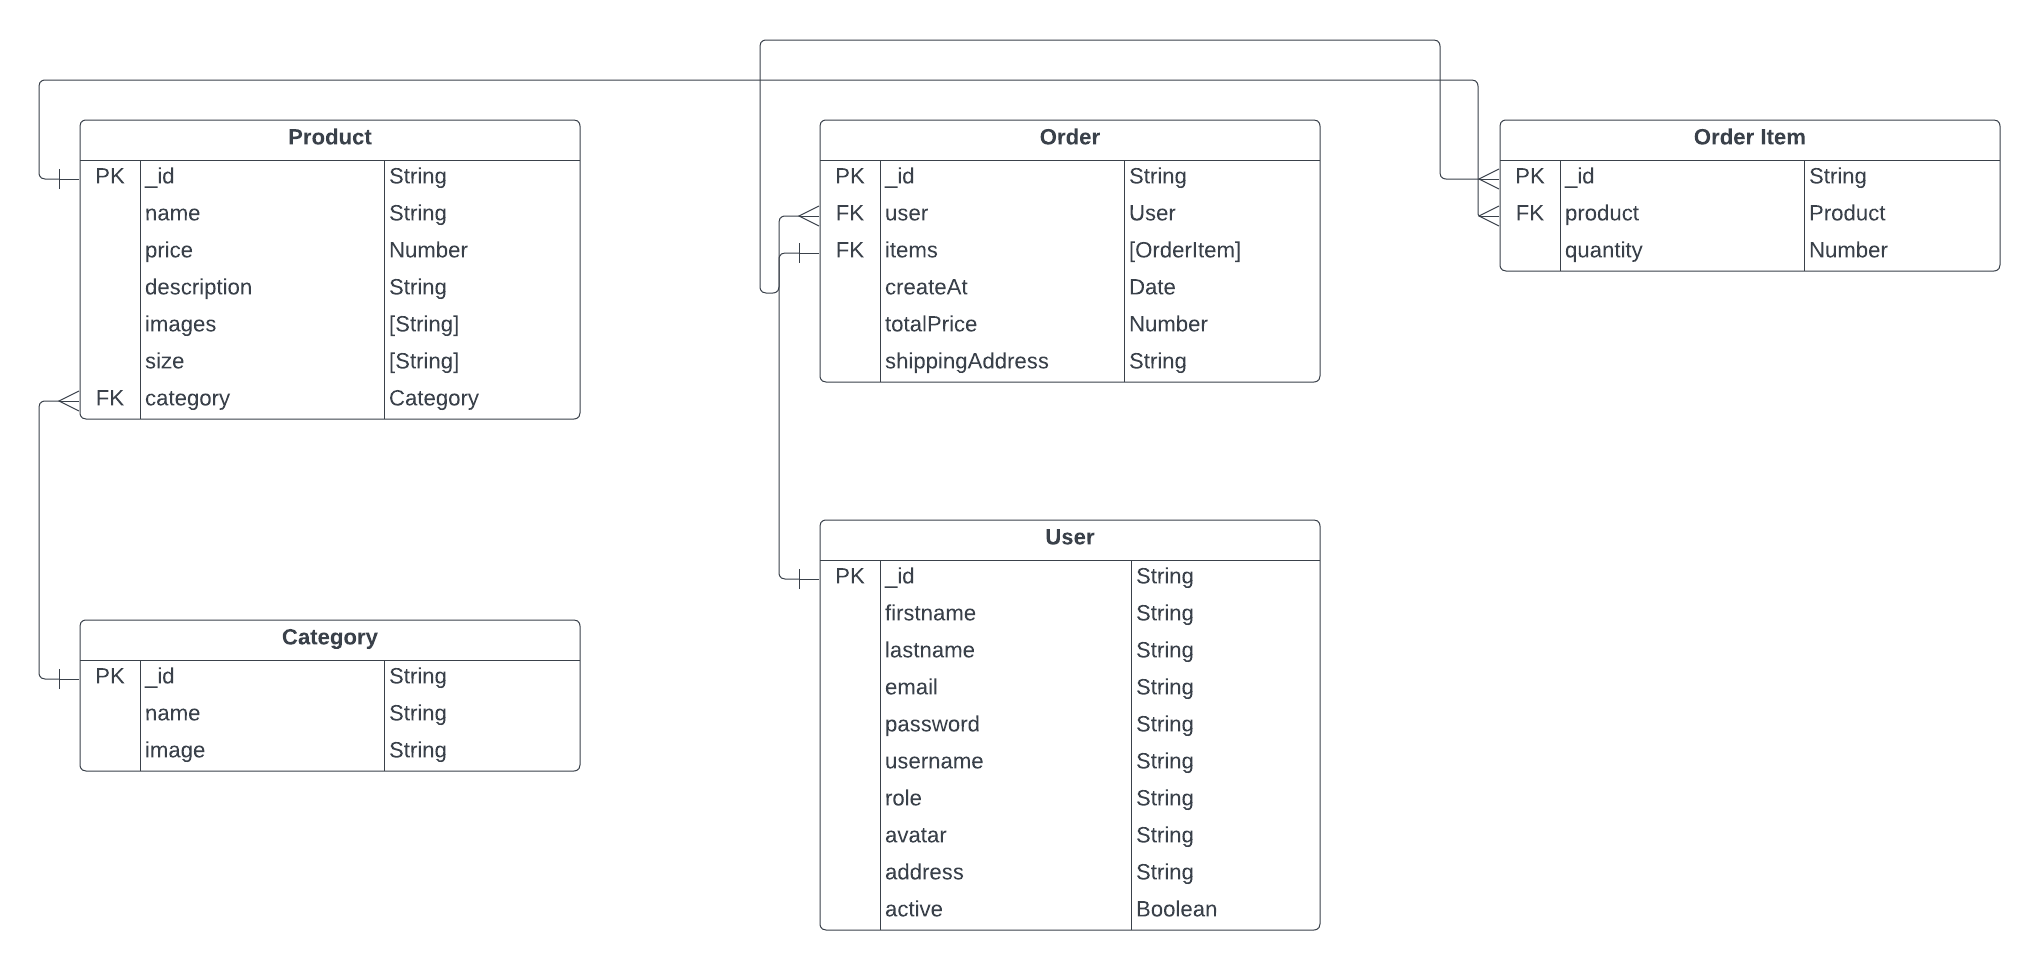
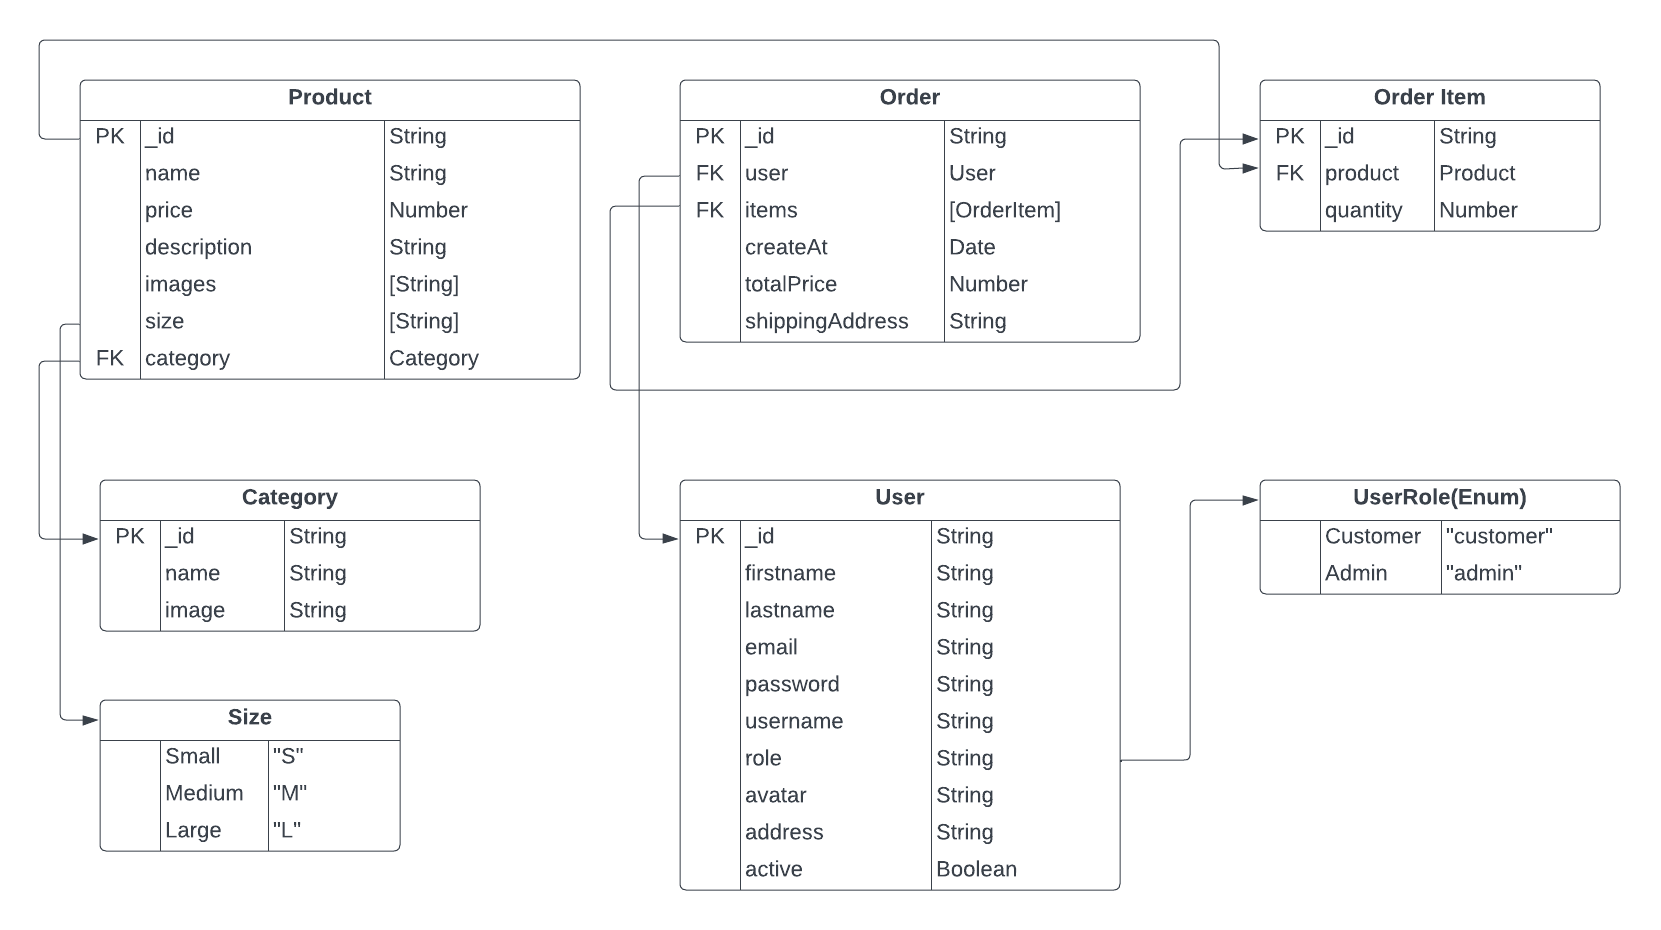
readme update

diff --git a/README.md b/README.md
@@ -1,28 +1,36 @@
-# E-commerce API
+# Fullstack E-commerce Backend
 
-The backend module is a part of Fullstack project at Integrify 2024.
+This backend module is a part of Fullstack project at Integrify 2024. It encompasses collection of APIs aimed to meeth the diverse needs of E-commerce application. From user and product management to order processing, these REST APIs offer seamless functionality for a better user experience. The data are stored in MongoDB database, ensuring security and reliability. Each entity basically have a CRUD(Create, Read, Update, Delete) operations but also an authorized access for ADMIN to manage every aspect of this module. Authentication is handled using JSON Web Tokens (JWT).
 
-This backend encompasses collection of APIs aimed to meeth the diverse needs of Ecommerce application. From user and product mangement to order processing, these REST APIs offer seamless functionality for a better user experience. The data are stored in MongoDB database, ensuring security and reliability.
+This module is built with Typescript, Node, Express and MongoDB.
 
-Each entity basically have a CRUD(Create, Read, Update, Delete) operations but also a special access only for ADMIN.
+## Table of Contents
 
-This is built with Typescript, Node, Express and MongoDB.
+- [Fullstack E-commerce Backend](#fullstack-e-commerce-backend)
+- [Entity Relationship Diagram](#entity-relationship-diagram)
+- [Getting Started](#getting-started)
+- [Project Folder Structure](#project-folder-structure)
+- [Used Package Script](#package-scripts)
+- [Features](#features)
+- [Testing](#testing)
+- [Deployment](#deployment)
 
-## Introduction
+## Entity Relationship Diagram
 
 ![ERD Diagram](./src/assets/images/ERD-ECOMMERCE.png)
 
-We have structured base entities
+#### Entities
 
-- Users
+- **Users**
+- **Products**
+- **Categories**
+- **Orders**
+- **Order Item**
 
-- Products
+### Enum
 
-- Categories
-
-- Orders
-
-- OrderItems
+- **Size**
+- **UserRole**
 
 ## Getting started
 
@@ -36,8 +44,8 @@ Make sure you have [npm](https://www.npmjs.com/get-npm) installed globally.
 #### 1.Clone the project:
 
 ```bash
-$ git clone https://github.com/Woongsik/e-commerce-api.git
-$ cd e-commerce-api
+$ git clone https://github.com/roshanbist/fullstack-e-commerce-api.git
+$ cd fullstack-e-commerce-api
 ```
 
 #### 2.Install and run:
@@ -47,20 +55,88 @@ $ npm install    # Install project dependencies
 $ npm run start  # Compile and launch on local environment
 ```
 
-#### 3. Navigate to [http://localhost:8080](http://localhost:8080)
+#### 3. Navigate to [http://localhost:{yourPortAdressForBackend}](http://localhost:8080)
+
+## Project Folder Structure
+
+```
+└── 📁src
+    └── .DS_Store
+    └── app.ts
+    └── 📁assets
+        └── 📁images
+            └── ERD-ECOMMERCE.png
+    └── 📁config
+        └── email.ts
+        └── passport.ts
+    └── 📁controllers
+        └── adminController.ts
+        └── categoriesController.ts
+        └── ordersController.ts
+        └── productsController.ts
+        └── usersController.ts
+    └── 📁errors
+        └── ApiError.ts
+    └── 📁middlewares
+        └── adminCheck.ts
+        └── apiErrorHandlerMiddleware.ts
+    └── 📁misc
+        └── 📁types
+            └── Category.ts
+            └── GoogleCredential.ts
+            └── JwtPayload.ts
+            └── Order.ts
+            └── Passport.ts
+            └── Password.ts
+            └── Product.ts
+            └── Size.ts
+            └── User.ts
+    └── 📁model
+        └── CategoryModel.ts
+        └── OrderItemModel.ts
+        └── OrderModel.ts
+        └── ProductModel.ts
+        └── UserModel.ts
+    └── 📁routers
+        └── adminRouter.ts
+        └── categoriesRouter.ts
+        └── orderRouter.ts
+        └── productsRouter.ts
+        └── usersRouter.ts
+    └── server.ts
+    └── 📁services
+        └── categoriesService.ts
+        └── ordersService.ts
+        └── productsService.ts
+        └── usersService.ts
+    └── 📁utils
+        └── AuthUtil.ts
+        └── commonUtil.ts
+```
+
+## Used Package Scripts
+
+```bash
+    "scripts": {
+    "start": "node dist/server.js",
+    "dev": "nodemon --watch src/**/*.ts --exec ts-node src/server.ts",
+    "build": "tsc -p .",
+    "test": "jest --runInBand --forceExit --detectOpenHandles --coverage  --verbose false"
+    }
+```
 
 ## Authentication
 
-For security, this API should implement user authentication using JSON Web Tokens (JWT).
-Each user should have a unique username and password OR broker authentication. Certain admin endpoints may require special privileges for access.
+This REST API implement user authentication using JSON Web Tokens (JWT).
 
 ## Features
 
 1.  Products
 
     - Get list of all products with/without pagination(limit, offset)
-    - Get list of products, filtering (search) by: name, categories, size
-    - Get a product by product id
+    - Filtered the products by: title, categories, price range
+    - Get list of sorted products by title (ASC, DESC)
+    - Get details of a product by its product id
 
 2.  Categories
 
@@ -72,40 +148,16 @@ Each user should have a unique username and password OR broker authentication. C
     - Sign up a new user (username, password, first name, last name, email, address)
     - Sign in user with email/password
     - Update user profile (first name, last name, email)
-    - Forget password request
     - Change password (username, old password, new password)
 
 4.  Order
 
-    - Get list of all orders
     - Get list of all user's order
     - Get a user's order by order ID
 
 5.  Admin
-    - Change a User's role to Admin or Customer,
-    - Change a User's active to Active or Inactive
-    - Create a new category, update, remove
-    - Create a new product, update, remove
-
-### Additional Features
-
-      1. Welcoming email
-         - When new user is registered, welcoming email is sent
-         - [Mailersend](https://www.mailersend.com/)
-
-      2. Google account login
-         - User is able to use their google account to login/registeration
-         - Welcoming email generate an initial password for email/passowrd login
-
-      3. Email check if already in use
-         - Email address will be checked if it is in use already before sending all user info for registration
-
-      4. Admin check
-         - The Admin role will be given only accpeted/registered email
-         - ie.
-            ```bash
-               admin@mail.com (just for testing purpose in the project)
-            ```
+    - Get CRUD operation of product
+    - Get CRUD operation of caetgory
 
 ## Testing
 
@@ -117,7 +169,23 @@ For the testing, Jest, Supertest, MongoDB memory server are used.
 
 - [MongoDB memory server](https://www.npmjs.com/package/mongodb-memory-server)
 
-Check test code in src/tests
+Testing of the backend module includes:
+
+- Controllers
+  - productsController.test.ts
+  - categoriesController.test.ts
+  - usersController.test.ts
+- Middlewares
+  - adminCheck.spec.ts
+- Services
+
+  - productsService.test.ts
+  - categoreisService.test.ts
+  - usersService.test.ts
+
+![Test result](./src/assets/images/backend-testing.png)
+
+Check test code in tests folder
 
 ```bash
 $ npm run test
@@ -127,9 +195,3 @@ $ npm run test
 
 The API is live now hosted by RENDER.
 Check the live link here [https://fs17-backend-b5i2.onrender.com](https://fs17-backend-b5i2.onrender.com)
-
-- Some examples
-  - [All products](https://fs17-backend-b5i2.onrender.com/api/v1/products)
-  - [All categories](https://fs17-backend-b5i2.onrender.com/api/v1/categories)
-  - [All orders](https://fs17-backend-b5i2.onrender.com/api/v1/orders)
-  - [All users](https://fs17-backend-b5i2.onrender.com/api/v1/users)
